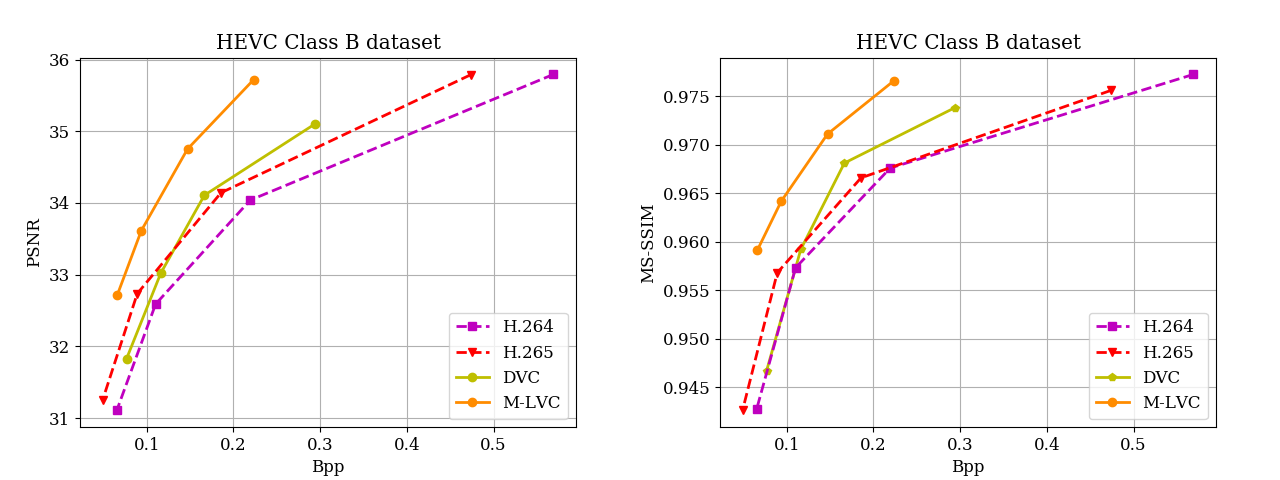
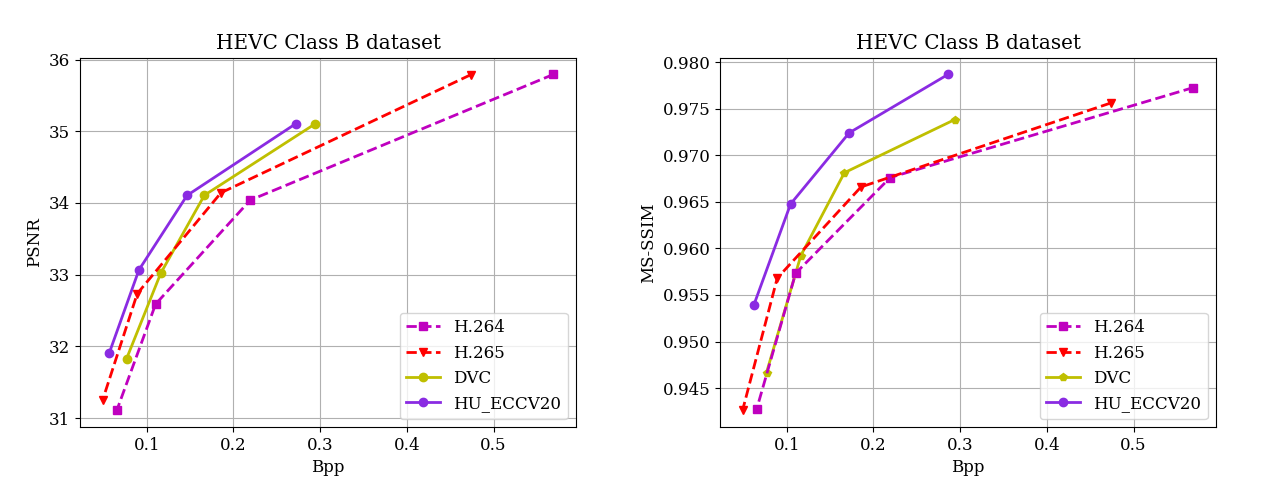
Update benchmark

diff --git a/Benchmark/draw_HEVC.py b/Benchmark/draw_HEVC.py
@@ -13,11 +13,15 @@ def drawhevc(hclass):
     LineWidth = 2
 
     if hclass == 'B':
+
         
-        bpp = [0.0661, 0.09362000000000001, 0.14695999999999998, 0.2232]
-        psnr = [32.721524294756705, 33.61284158051482, 34.75174138791608, 35.718610694312616]
-        msssim = [0.959144, 0.964186, 0.97111, 0.9765840000000001]
-        MLVC, = plt.plot(bpp, psnr, "m-o", color='darkorange', linewidth=LineWidth, label='M-LVC')
+        bpp, psnr = [0.271843, 0.146412, 0.090925, 0.056782], [35.104963, 34.104735, 33.066283, 31.911116]
+        RaFC, = plt.plot(bpp, psnr, "c-o", color="blueviolet", linewidth=LineWidth, label='HU_ECCV20')
+        
+        # bpp = [0.0661, 0.09362000000000001, 0.14695999999999998, 0.2232]
+        # psnr = [32.721524294756705, 33.61284158051482, 34.75174138791608, 35.718610694312616]
+        # msssim = [0.959144, 0.964186, 0.97111, 0.9765840000000001]
+        # MLVC, = plt.plot(bpp, psnr, "m-o", color='darkorange', linewidth=LineWidth, label='M-LVC') #  some problem : this paper use resize the test sequence, which loses information and leads to higher results.
 
         bpp = [0.07658514, 0.11616374, 0.16643274, 0.2939271]
         psnr = [31.82619106, 33.0220837, 34.10751308, 35.10115456]
@@ -33,11 +37,13 @@ def drawhevc(hclass):
         msssim = [0.975606114, 0.966591679, 0.956803834, 0.942605916]
         h265, = plt.plot(bpp, psnr, "r--v", linewidth=LineWidth, label='H.265')
     elif hclass == 'C':
+        bpp, psnr = [0.345057, 0.244922, 0.16963, 0.107338], [32.58818, 31.563223, 30.362042, 28.849785]
+        RaFC, = plt.plot(bpp, psnr, "c-o", color="blueviolet", linewidth=LineWidth, label='HU_ECCV20')
         
-        bpp = [0.12157499999999999, 0.17965, 0.271025, 0.38745]
-        psnr = [28.63609903605147, 29.944387388321196, 31.54062511303266, 33.03500011196936]
-        msssim = [0.9578025, 0.9686675, 0.9776324999999999, 0.98348]
-        MLVC, = plt.plot(bpp, psnr, "m-o", color='darkorange', linewidth=LineWidth, label='M-LVC')
+        # bpp = [0.12157499999999999, 0.17965, 0.271025, 0.38745]
+        # psnr = [28.63609903605147, 29.944387388321196, 31.54062511303266, 33.03500011196936]
+        # msssim = [0.9578025, 0.9686675, 0.9776324999999999, 0.98348]
+        # MLVC, = plt.plot(bpp, psnr, "m-o", color='darkorange', linewidth=LineWidth, label='M-LVC')
 
         bpp = [0.133924025, 0.19340295, 0.272746925, 0.4122508326]
         psnr = [28.767909, 29.95094243, 31.25051302, 32.51022528]
@@ -53,11 +59,14 @@ def drawhevc(hclass):
         msssim = [0.983231578, 0.974819694, 0.962047889, 0.941757279]
         h265, = plt.plot(bpp, psnr, "r--v", linewidth=LineWidth, label='H.265')
     elif hclass == 'D':
+        bpp, psnr = [0.37856, 0.274477, 0.192981, 0.121238], [32.642264, 31.520746, 30.215077, 28.655284]
+        RaFC, = plt.plot(bpp, psnr, "c-o", color="blueviolet", linewidth=LineWidth, label='HU_ECCV20')
+
         
-        bpp = [0.11227499999999999, 0.17395000000000002, 0.264575, 0.38207500000000005]
-        psnr = [28.82520179437781, 30.23478970812226, 31.91116994008828, 33.53631860458036]
-        msssim = [0.96777, 0.9763375, 0.9830949999999999, 0.98793]
-        MLVC, = plt.plot(bpp, psnr, "m-o", color='darkorange', linewidth=LineWidth, label='M-LVC')
+        # bpp = [0.11227499999999999, 0.17395000000000002, 0.264575, 0.38207500000000005]
+        # psnr = [28.82520179437781, 30.23478970812226, 31.91116994008828, 33.53631860458036]
+        # msssim = [0.96777, 0.9763375, 0.9830949999999999, 0.98793]
+        # MLVC, = plt.plot(bpp, psnr, "m-o", color='darkorange', linewidth=LineWidth, label='M-LVC')
         
         bpp = [0.141631075, 0.206291275, 0.2892303, 0.4370301311]
         psnr = [28.41229473, 29.72853673, 31.1727661, 32.53451213]
@@ -73,10 +82,13 @@ def drawhevc(hclass):
         msssim = [0.987591187, 0.98046689, 0.969045592, 0.951302461]
         h265, = plt.plot(bpp, psnr, "r--v", linewidth=LineWidth, label='H.265')
     elif hclass == 'E':
-        bpp = [0.02223333333333333, 0.0281, 0.04416666666666667, 0.06459999999999999]
-        psnr = [36.119993400198794, 36.895272069830746, 37.95133358562974, 38.59336757723919]
-        msssim = [0.97991, 0.98177, 0.9831466666666667, 0.98547]
-        MLVC, = plt.plot(bpp, psnr, "m-o", color='darkorange', linewidth=LineWidth, label='M-LVC')
+        bpp, psnr = [0.102672, 0.059125, 0.041676, 0.028598], [39.933601, 38.773299, 37.673584, 36.296838]
+        RaFC, = plt.plot(bpp, psnr, "c-o", color="blueviolet", linewidth=LineWidth, label='HU_ECCV20')
+
+        # bpp = [0.02223333333333333, 0.0281, 0.04416666666666667, 0.06459999999999999]
+        # psnr = [36.119993400198794, 36.895272069830746, 37.95133358562974, 38.59336757723919]
+        # msssim = [0.97991, 0.98177, 0.9831466666666667, 0.98547]
+        # MLVC, = plt.plot(bpp, psnr, "m-o", color='darkorange', linewidth=LineWidth, label='M-LVC')
 
         bpp = [0.03684806667, 0.04987243333, 0.07102866667, 0.1215183]
         psnr = [36.020002, 37.53390843, 38.70012267, 39.80463083]
@@ -98,7 +110,7 @@ def drawhevc(hclass):
     print(prefix)
     if not os.path.exists(prefix):
         os.makedirs(prefix)
-    plt.legend(handles=[h264, h265, DVC, MLVC], loc=4)
+    plt.legend(handles=[h264, h265, DVC, RaFC], loc=4)
     plt.grid()
     plt.xlabel('Bpp')
     plt.ylabel('PSNR')
@@ -110,10 +122,13 @@ def drawhevc(hclass):
     # ----------------------------------------MSSSIM-------------------------------------------------
     if hclass == 'B':
         
-        bpp = [0.0661, 0.09362000000000001, 0.14695999999999998, 0.2232]
-        psnr = [32.721524294756705, 33.61284158051482, 34.75174138791608, 35.718610694312616]
-        msssim = [0.959144, 0.964186, 0.97111, 0.9765840000000001]
-        MLVC, = plt.plot(bpp, msssim, "m-o", color='darkorange', linewidth=LineWidth, label='M-LVC')
+        bpp, msssim = [0.286055, 0.171946, 0.104357, 0.062172], [0.978676, 0.9724, 0.96476, 0.953966]
+        RaFC, = plt.plot(bpp, msssim, "c-o", color="blueviolet", linewidth=LineWidth, label='HU_ECCV20')
+
+        # bpp = [0.0661, 0.09362000000000001, 0.14695999999999998, 0.2232]
+        # psnr = [32.721524294756705, 33.61284158051482, 34.75174138791608, 35.718610694312616]
+        # msssim = [0.959144, 0.964186, 0.97111, 0.9765840000000001]
+        # MLVC, = plt.plot(bpp, msssim, "m-o", color='darkorange', linewidth=LineWidth, label='M-LVC')
 
         msssim = [0.94666318, 0.95921518, 0.96812108, 0.97383252]
         bpp = [0.07658514, 0.11616374, 0.16643274, 0.2939271]
@@ -130,10 +145,14 @@ def drawhevc(hclass):
         h265, = plt.plot(bpp, msssim, "r--v", linewidth=LineWidth, label='H.265')
 
     elif hclass == 'C':
-        bpp = [0.12157499999999999, 0.17965, 0.271025, 0.38745]
-        psnr = [28.63609903605147, 29.944387388321196, 31.54062511303266, 33.03500011196936]
-        msssim = [0.9578025, 0.9686675, 0.9776324999999999, 0.98348]
-        MLVC, = plt.plot(bpp, msssim, "m-o", color='darkorange', linewidth=LineWidth, label='M-LVC')
+
+        bpp, psnr = [0.358622, 0.243691, 0.163198, 0.094394], [0.984432, 0.978034, 0.968136, 0.950041]
+        RaFC, = plt.plot(bpp, psnr, "c-o", color="blueviolet", linewidth=LineWidth, label='HU_ECCV20')
+
+        # bpp = [0.12157499999999999, 0.17965, 0.271025, 0.38745]
+        # psnr = [28.63609903605147, 29.944387388321196, 31.54062511303266, 33.03500011196936]
+        # msssim = [0.9578025, 0.9686675, 0.9776324999999999, 0.98348]
+        # MLVC, = plt.plot(bpp, msssim, "m-o", color='darkorange', linewidth=LineWidth, label='M-LVC')
         
 
         bpp = [0.133924025, 0.19340295, 0.272746925, 0.4122508326]
@@ -151,10 +170,13 @@ def drawhevc(hclass):
         h265, = plt.plot(bpp, msssim, "r--v", linewidth=LineWidth, label='H.265')
     elif hclass == 'D':
         
-        bpp = [0.11227499999999999, 0.17395000000000002, 0.264575, 0.38207500000000005]
-        psnr = [28.82520179437781, 30.23478970812226, 31.91116994008828, 33.53631860458036]
-        msssim = [0.96777, 0.9763375, 0.9830949999999999, 0.98793]
-        MLVC, = plt.plot(bpp, msssim, "m-o", color='darkorange', linewidth=LineWidth, label='M-LVC')
+        bpp, psnr = [0.365465, 0.255783, 0.176039, 0.102085], [0.987527, 0.981579, 0.972727, 0.958684]
+        RaFC, = plt.plot(bpp, psnr, "c-o", color="blueviolet", linewidth=LineWidth, label='HU_ECCV20')
+        
+        # bpp = [0.11227499999999999, 0.17395000000000002, 0.264575, 0.38207500000000005]
+        # psnr = [28.82520179437781, 30.23478970812226, 31.91116994008828, 33.53631860458036]
+        # msssim = [0.96777, 0.9763375, 0.9830949999999999, 0.98793]
+        # MLVC, = plt.plot(bpp, msssim, "m-o", color='darkorange', linewidth=LineWidth, label='M-LVC')
 
         bpp = [0.141631075, 0.206291275, 0.2892303, 0.4370301311]
         msssim = [0.95808245, 0.971744025, 0.981360625, 0.9863982]
@@ -171,10 +193,13 @@ def drawhevc(hclass):
         h265, = plt.plot(bpp, msssim, "r--v", linewidth=LineWidth, label='H.265')
     elif hclass == 'E':
         
-        bpp = [0.02223333333333333, 0.0281, 0.04416666666666667, 0.06459999999999999]
-        psnr = [36.119993400198794, 36.895272069830746, 37.95133358562974, 38.59336757723919]
-        msssim = [0.97991, 0.98177, 0.9831466666666667, 0.98547]
-        MLVC, = plt.plot(bpp, msssim, "m-o", color='darkorange', linewidth=LineWidth, label='M-LVC')
+        bpp, psnr = [0.138196, 0.078092, 0.04724, 0.029643], [0.990446, 0.988069, 0.985217, 0.980766]
+        RaFC, = plt.plot(bpp, psnr, "c-o", color="blueviolet", linewidth=LineWidth, label='HU_ECCV20')
+        
+        # bpp = [0.02223333333333333, 0.0281, 0.04416666666666667, 0.06459999999999999]
+        # psnr = [36.119993400198794, 36.895272069830746, 37.95133358562974, 38.59336757723919]
+        # msssim = [0.97991, 0.98177, 0.9831466666666667, 0.98547]
+        # MLVC, = plt.plot(bpp, msssim, "m-o", color='darkorange', linewidth=LineWidth, label='M-LVC')
 
         bpp = [0.03684806667, 0.04987243333, 0.07102866667, 0.1215183]
         msssim = [0.9768797, 0.9829584333, 0.9865011667, 0.9887121667]
@@ -195,7 +220,7 @@ def drawhevc(hclass):
 
         
     savepathmsssim = prefix + '/' + 'HEVCClass_' + hclass + '_msssim'# + '.eps'
-    plt.legend(handles=[h264, h265, DVC, MLVC], loc=4)
+    plt.legend(handles=[h264, h265, DVC, RaFC], loc=4)
     plt.grid()
     plt.xlabel('Bpp')
     plt.ylabel('MS-SSIM')

diff --git a/Benchmark/draw_uvg.py b/Benchmark/draw_uvg.py
@@ -13,19 +13,26 @@ matplotlib.rc('font', **font)
 LineWidth = 2
 
 
-bpp = [0.054142857142857145, 0.07154285714285714, 0.10525714285714284, 0.14809999999999998]
-psnr = [35.08253188344889, 35.72518803688726, 36.887165873124644, 37.737663494538516]
-msssim = [0.9568914285714286, 0.9618171428571429, 0.9699657142857142, 0.9762942857142859]
-MLVC, = plt.plot(bpp, psnr, "m-o", color='darkorange', linewidth=LineWidth, label='M-LVC')
+# bpp = [0.054142857142857145, 0.07154285714285714, 0.10525714285714284, 0.14809999999999998]
+# psnr = [35.08253188344889, 35.72518803688726, 36.887165873124644, 37.737663494538516]
+# msssim = [0.9568914285714286, 0.9618171428571429, 0.9699657142857142, 0.9762942857142859]
+# MLVC, = plt.plot(bpp, psnr, "m-o", color='darkorange', linewidth=LineWidth, label='M-LVC')
+
+
+bpp, psnr = [0.040222, 0.059522, 0.090525, 0.155768], [34.36477, 35.594595, 36.651909, 37.74166]
+rafc, = plt.plot(bpp, psnr, 'c-*', color="blueviolet", linewidth=LineWidth, label='HU_ECCV20')
+
+bpp, psnr =  [0.047607, 0.067984, 0.114375, 0.222292], [34.412507, 35.861409, 36.950722, 38.393440]
+EA, = plt.plot(bpp, psnr, "g-o", color="orange", linewidth=LineWidth, label='EA_CVPR20')
 
 bpp = [0.12377, 0.16239, 0.1983, 0.229, 0.2699, 0.3113]
 psnr = [36.0736, 36.663, 36.9157, 37.1818, 37.5149, 37.6513]
-eccv, = plt.plot(bpp, psnr, "b-*", linewidth=LineWidth, label='CW_ECCV')
+eccv, = plt.plot(bpp, psnr, "b-*", linewidth=LineWidth, label='CW_ECCV18')
 
 bpp, psnr = [0.052080695, 0.060782631, 0.073709049, 0.094923348, 0.132789571, 0.211082522, 0.539064405], [35.01218307, 35.69302652, 36.48478603, 37.28231639, 38.21140795, 39.28474608, 41.47109755]
 bpp = [0.052080695, 0.060782631, 0.073709049, 0.094923348 , 0.132789571, 0.211082522]
 psnr = [35.01218307, 35.69302652, 36.48478603, 37.28231639, 38.21140795, 39.28474608]
-iccv, = plt.plot(bpp, psnr, "c-*", linewidth=LineWidth, label='AD_ICCV')
+iccv, = plt.plot(bpp, psnr, "c-*", linewidth=LineWidth, label='AD_ICCV19')
 
 bpp, psnr, msssim = [0.185334726, 0.108594607, 0.076628071, 0.06013501], [37.69306179, 36.68785979, 35.52100014, 34.54747739], [0.971436012, 0.96574275, 0.957191524, 0.949676821]
 DVC, = plt.plot(bpp, psnr, "y-o", linewidth=LineWidth, label='DVC')
@@ -41,7 +48,7 @@ savepathpsnr = prefix + '/UVG_psnr'
 print(prefix)
 if not os.path.exists(prefix):
     os.makedirs(prefix)
-plt.legend(handles=[h264, h265, DVC, eccv, iccv, MLVC], loc=4)
+plt.legend(handles=[h264, h265, DVC, eccv, iccv, EA, rafc], loc=4)
 plt.grid()
 plt.xlabel('Bpp')
 plt.ylabel('PSNR')
@@ -52,25 +59,32 @@ plt.clf()
 
 # ----------------------------------------MSSSIM-------------------------------------------------
 
-bpp = [0.054142857142857145, 0.07154285714285714, 0.10525714285714284, 0.14809999999999998]
-psnr = [35.08253188344889, 35.72518803688726, 36.887165873124644, 37.737663494538516]
-msssim = [0.9568914285714286, 0.9618171428571429, 0.9699657142857142, 0.9762942857142859]
-MLVC, = plt.plot(bpp, msssim, "m-o", color='darkorange', linewidth=LineWidth, label='M-LVC')
+# bpp = [0.054142857142857145, 0.07154285714285714, 0.10525714285714284, 0.14809999999999998]
+# psnr = [35.08253188344889, 35.72518803688726, 36.887165873124644, 37.737663494538516]
+# msssim = [0.9568914285714286, 0.9618171428571429, 0.9699657142857142, 0.9762942857142859]
+# MLVC, = plt.plot(bpp, msssim, "m-o", color='darkorange', linewidth=LineWidth, label='M-LVC')
+
+
+bpp, psnr = [0.218918, 0.130343, 0.077172, 0.04779], [0.978714, 0.972417, 0.965527, 0.956974]
+rafc, = plt.plot(bpp, psnr, 'c-*', color="blueviolet", linewidth=LineWidth, label='HU_ECCV20')
+
+bpp, psnr =  [0.060844, 0.085622, 0.128203, 0.243156, 0.345827], [0.961259, 0.968878, 0.974102, 0.982171, 0.985049]
+EA, = plt.plot(bpp, psnr, "g-o", color="orange", linewidth=LineWidth, label='EA_CVPR20')
 
 bpp = [0.12377, 0.16239, 0.1983, 0.229, 0.2699, 0.3113]
 msssim = [0.96126, 0.96591, 0.96708, 0.96867, 0.97117, 0.97186]
-eccv, = plt.plot(bpp, msssim, "b-*", linewidth=LineWidth, label='CW_ECCV')
+eccv, = plt.plot(bpp, msssim, "b-*", linewidth=LineWidth, label='CW_ECCV18')
 
 bpp = [0.052080695, 0.060782631, 0.073709049, 0.094923348, 0.132789571, 0.211082522]
 msssim = [0.953062573, 0.958916648, 0.964496266, 0.969689354, 0.974711348, 0.979329442]
-iccv, = plt.plot(bpp, msssim, "c-*", linewidth=LineWidth, label='AD_ICCV')
+iccv, = plt.plot(bpp, msssim, "c-*", linewidth=LineWidth, label='AD_ICCV19')
 
 bpp, psnr, msssim = [0.185334726, 0.108594607, 0.076628071, 0.06013501], [37.69306179, 36.68785979, 35.52100014, 34.54747739], [0.971436012, 0.96574275, 0.957191524, 0.949676821]
 DVC, = plt.plot(bpp, msssim, "y-o", linewidth=LineWidth, label='DVC')
 
 
 bpp, msssim = [0.25601, 0.18540, 0.11757, 0.06162, 0.04352, 0.03561], [0.97627, 0.97311, 0.96770, 0.95592, 0.94839, 0.94459]
-ha_iccv, = plt.plot(bpp, msssim, "g-o", linewidth=LineWidth, label='AH_ICCV')
+ha_iccv, = plt.plot(bpp, msssim, "g-o", color="lime", linewidth=LineWidth, label='AH_ICCV19')
 
 bpp, psnr, msssim = [0.360398059, 0.148765645, 0.076027148, 0.044918456], [38.17135327, 36.64284159, 35.23609537, 33.81775541], [0.978673172, 0.967889817, 0.95755343, 0.945528742]
 h264, = plt.plot(bpp, msssim, "m--s", linewidth=LineWidth, label='H.264')
@@ -80,7 +94,7 @@ h265, = plt.plot(bpp, msssim, "r--v", linewidth=LineWidth, label='H.265')
 
 
 savepathmsssim = prefix + '/' + 'UVG_msssim'# + '.eps'
-plt.legend(handles=[h264, h265, DVC, eccv, ha_iccv, iccv, MLVC], loc=4)
+plt.legend(handles=[h264, h265, DVC, eccv, ha_iccv, iccv, EA, rafc], loc=4)
 plt.grid()
 plt.xlabel('Bpp')
 plt.ylabel('MS-SSIM')

diff --git a/Benchmark/draw_mcl.py b/Benchmark/draw_mcl.py
@@ -11,16 +11,23 @@ LineWidth = 2
 font = {'family': 'serif', 'weight': 'normal', 'size': 12}
 matplotlib.rc('font', **font)
 
+bpp, psnr = [0.177528, 0.105804, 0.069346, 0.044944], [38.044085, 36.90718, 35.749727, 34.440707]
+rafc, = plt.plot(bpp, psnr, 'c-*', color="blueviolet", linewidth=LineWidth, label='HU_ECCV20')
 
-bpp = [0.07350666666666665, 0.09998666666666667, 0.14866666666666667, 0.20885666666666666]
-psnr = [34.19015183584638, 34.97325683520819, 36.4162965039923, 37.564191921189945]
-MLVC, = plt.plot(bpp, psnr, "m-o", color='darkorange', linewidth=LineWidth, label='M-LVC')
+
+bpp, psnr =  [0.043773, 0.065584, 0.093487, 0.152313, 0.260900, 0.416239], [33.459643, 34.659647, 36.299582, 37.555222, 38.784670, 39.781974]
+EA, = plt.plot(bpp, psnr, "g-o", color="orange", linewidth=LineWidth, label='EA_CVPR20')
+
+
+# bpp = [0.07350666666666665, 0.09998666666666667, 0.14866666666666667, 0.20885666666666666]
+# psnr = [34.19015183584638, 34.97325683520819, 36.4162965039923, 37.564191921189945]
+# MLVC, = plt.plot(bpp, psnr, "m-o", color='darkorange', linewidth=LineWidth, label='M-LVC')
 
 
 bpp = [0.067980956, 0.080343472, 0.102782285, 0.133500782, 0.18545014, 0.281805116, 0.376178686]#, 0.543077581]
 psnr = [34.33114855, 35.00107532, 35.7351181, 36.56075116, 37.47248012, 38.5945216, 39.43083815]#, 40.29353013]
 msssim = [0.956373977, 0.96103441, 0.966706579, 0.971418613, 0.976173806, 0.982212426, 0.984971718]#, 0.987377043]
-iccv19, = plt.plot(bpp, psnr, "c-*", linewidth=LineWidth, label='AD_ICCV')
+iccv19, = plt.plot(bpp, psnr, "c-*", linewidth=LineWidth, label='AD_ICCV19')
 
 bpp, psnr, msssim = [0.063445, 0.090866, 0.129456, 0.204172], [34.275199, 35.656182, 36.862051, 38.003749], [0.953543, 0.964906, 0.972667, 0.978116]
 DVC, = plt.plot(bpp, psnr, "y-o", linewidth=LineWidth, label='DVC')
@@ -40,7 +47,7 @@ savepathpsnreps = prefix + '/MCL_psnr' + '.eps'
 print(prefix)
 if not os.path.exists(prefix):
     os.makedirs(prefix)
-plt.legend(handles=[h264, h265, DVC, iccv19, MLVC], loc=4)
+plt.legend(handles=[h264, h265, DVC, iccv19, EA, rafc], loc=4)
 plt.grid()
 plt.xlabel('Bpp')
 plt.ylabel('PSNR')
@@ -51,10 +58,17 @@ plt.clf()
 
 # ----------------------------------------MSSSIM-------------------------------------------------
 
+
+bpp, psnr = [0.21493, 0.131528, 0.081933, 0.051843], [0.98331, 0.978267, 0.972588, 0.964108]
+rafc, = plt.plot(bpp, psnr, 'c-*', color="blueviolet", linewidth=LineWidth, label='HU_ECCV20')
+
+bpp, psnr =  [0.039060, 0.059494, 0.084072, 0.122407, 0.228456, 0.326567], [0.958350, 0.965656, 0.973480, 0.977267, 0.984815, 0.987433]
+EA, = plt.plot(bpp, psnr, "g-o", color="orange", linewidth=LineWidth, label='EA_CVPR20')
+
 bpp = [0.067980956, 0.080343472, 0.102782285, 0.133500782, 0.18545014, 0.281805116, 0.376178686]#, 0.543077581]
 psnr = [34.33114855, 35.00107532, 35.7351181, 36.56075116, 37.47248012, 38.5945216, 39.43083815]#, 40.29353013]
 msssim = [0.956373977, 0.96103441, 0.966706579, 0.971418613, 0.976173806, 0.982212426, 0.984971718]#, 0.987377043]
-iccv19, = plt.plot(bpp, msssim, "c-*", linewidth=LineWidth, label='AD_ICCV')
+iccv19, = plt.plot(bpp, msssim, "c-*", linewidth=LineWidth, label='AD_ICCV19')
 
 bpp, psnr, msssim = [0.063445, 0.090866, 0.129456, 0.204172], [34.275199, 35.656182, 36.862051, 38.003749], [0.953543, 0.964906, 0.972667, 0.978116]
 DVC, = plt.plot(bpp, msssim, "y-o", linewidth=LineWidth, label='DVC')
@@ -71,7 +85,7 @@ h265, = plt.plot(bpp, msssim, "r--v", linewidth=LineWidth, label='H.265')
 
 savepathmsssim = prefix + '/' + 'MCL_msssim' + '.png'
 savepathmsssimeps = prefix + '/' + 'MCL_msssim' + '.eps'
-plt.legend(handles=[h264, h265, DVC, iccv19], loc=4)
+plt.legend(handles=[h264, h265, DVC, EA, iccv19, rafc], loc=4)
 plt.grid()
 plt.xlabel('Bpp')
 plt.ylabel('MS-SSIM')

diff --git a/Benchmark/draw_vtl.py b/Benchmark/draw_vtl.py
@@ -11,9 +11,13 @@ LineWidth = 2
 font = {'family': 'serif', 'weight': 'normal', 'size': 12}
 matplotlib.rc('font', **font)
 
+
+bpp, psnr = [0.296787, 0.19001, 0.126534, 0.080851], [34.303688, 33.036154, 31.737594, 30.490966]
+rafc, = plt.plot(bpp, psnr, 'c-*', color="blueviolet", linewidth=LineWidth, label='HU_ECCV20')
+
 bpp = [0.149002168, 0.194118677, 0.269459397, 0.484332918]#, 0.956521083]
 psnr = [31.67178903, 32.56079993, 33.57877741, 35.89857494]#, 38.44629636]
-iccv, = plt.plot(bpp, psnr, "c-*", linewidth=LineWidth, label='AD_ICCV')
+iccv, = plt.plot(bpp, psnr, "c-*", linewidth=LineWidth, label='AD_ICCV19')
 
 bpp, psnr, msssim = [0.317761, 0.207319, 0.143094, 0.097783], [34.326297, 33.068078, 31.720454, 30.447007], [0.982151, 0.977638, 0.971062, 0.961707]
 DVC, = plt.plot(bpp, psnr, "y-o", linewidth=LineWidth, label='DVC')
@@ -28,7 +32,7 @@ savepathpsnr = prefix + '/VTL_psnr'# + '.eps'
 print(prefix)
 if not os.path.exists(prefix):
     os.makedirs(prefix)
-plt.legend(handles=[h264, h265, DVC, iccv], loc=4)
+plt.legend(handles=[h264, h265, DVC, iccv, rafc], loc=4)
 plt.grid()
 plt.xlabel('Bpp')
 plt.ylabel('PSNR')
@@ -43,9 +47,13 @@ plt.clf()
 # msssim = [0.9718572754, 0.9711699173, 0.96866567, 0.9670768429, 0.9659088446, 0.961264922]
 # eccv, = plt.plot(bpp, msssim, "b-*", linewidth=LineWidth, label='Wu_ECCV')
 
+
+bpp, msssim = [0.291837, 0.189759, 0.121654, 0.070671], [0.984102, 0.978341, 0.97124, 0.959966]
+rafc, = plt.plot(bpp, msssim, 'c-*', color="blueviolet", linewidth=LineWidth, label='HU_ECCV20')
+
 bpp = [0.149002168, 0.194118677, 0.269459397, 0.484332918]#, 0.956521083]
 psnr = [0.971382803, 0.975893586, 0.980153643, 0.988934007]#, 0.994301121]
-iccv, = plt.plot(bpp, psnr, "c-*", linewidth=LineWidth, label='AD_ICCV')
+iccv, = plt.plot(bpp, psnr, "c-*", linewidth=LineWidth, label='AD_ICCV19')
 
 bpp, psnr, msssim = [0.317761, 0.207319, 0.143094, 0.097783], [34.326297, 33.068078, 31.720454, 30.447007], [0.982151, 0.977638, 0.971062, 0.961707]
 DVC, = plt.plot(bpp, msssim, "y-o", linewidth=LineWidth, label='DVC')
@@ -60,7 +68,7 @@ h265, = plt.plot(bpp, msssim, "r--v", linewidth=LineWidth, label='H.265')
 
 
 savepathmsssim = prefix + '/' + 'VTL_msssim'# + '.eps'
-plt.legend(handles=[h264, h265, DVC, iccv], loc=4)
+plt.legend(handles=[h264, h265, DVC, iccv, rafc], loc=4)
 plt.grid()
 plt.xlabel('Bpp')
 plt.ylabel('MS-SSIM')

diff --git a/Benchmark/README.md b/Benchmark/README.md
@@ -2,11 +2,14 @@
 
 
 ## Methods
-- <font color="#0343df">CW_ECCV</font> : [Video Compression through Image Interpolation](https://arxiv.org/abs/1804.06919)
+- <font color="#0343df">CW_ECCV18</font> : [Video Compression through Image Interpolation](https://arxiv.org/abs/1804.06919)
 - <font color="#c2bd1c">DVC</font> : [DVC: An End-to-end Deep Video Compression Framework](https://arxiv.org/abs/1812.00101)
-- <font color="#00bfbf">AD_ICCV</font> : [Neural Inter-Frame Compression for Video Coding](https://openaccess.thecvf.com/content_ICCV_2019/papers/Djelouah_Neural_Inter-Frame_Compression_for_Video_Coding_ICCV_2019_paper.pdf)
-- <font color="#007f0f">AH_ICCV</font> : [Video CompressionWith Rate-Distortion Autoencoders](https://arxiv.org/abs/1908.05717v2)
-- <font color="#ff8c0f">M-LVC</font> : [M-LVC: Multiple Frames Prediction for Learned Video Compression](https://arxiv.org/abs/2004.10290)
+- <font color="#00bfbf">AD_ICCV19</font> : [Neural Inter-Frame Compression for Video Coding](https://openaccess.thecvf.com/content_ICCV_2019/papers/Djelouah_Neural_Inter-Frame_Compression_for_Video_Coding_ICCV_2019_paper.pdf)
+- <font color="#00FF00">AH_ICCV19</font> : [Video CompressionWith Rate-Distortion Autoencoders](https://arxiv.org/abs/1908.05717v2)
+- <font color="#008000">EA_CVPR20</font> : [Scale-space Flow for End-to-end Optimized Video Compression](https://ieeexplore.ieee.org/stamp/stamp.jsp?tp=&arnumber=9157366)
+- <font color="#8A2BE2">HU_ECCV20</font> : [Improving Deep Video Compression by Resolution-adaptive Flow Coding](http://www.ecva.net/papers/eccv_2020/papers_ECCV/papers/123470188.pdf)
+- <font color="#ff8c0f">M-LVC</font> : [M-LVC: Multiple Frames Prediction for Learned Video Compression](https://arxiv.org/abs/2004.10290) (questionable)
+   
 
 ## HEVC Class B dataset
 <!-- ![](HEVCresults/HEVCClass_B_psnr.png)![](HEVCresults/HEVCClass_B_msssim.png) -->
